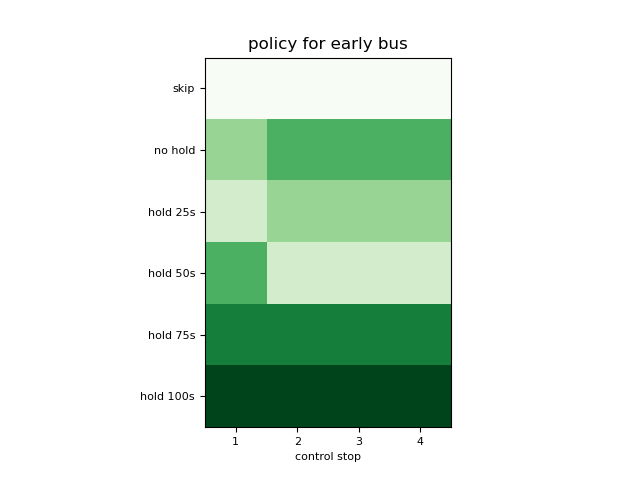
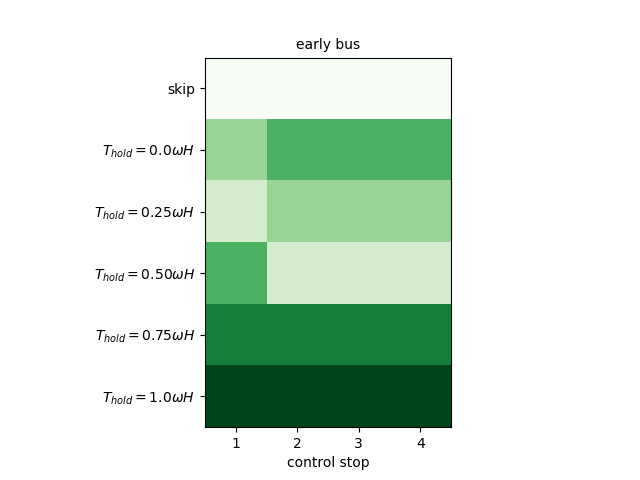
tr-c paper cosmetic updates

diff --git a/src/04_SIMULATION/main.py b/src/04_SIMULATION/main.py
@@ -132,80 +132,80 @@ if __name__ == '__main__':
         # --------------------------------- TESTING ----------------------------------------------------------------
 
         agent.load_models()
-        tstamp = datetime.now().strftime('%m%d-%H%M%S')
-        trajectories_set = []
-        sars_set = []
-        pax_set = []
-        for j in range(args.n_games):
-            score = 0
-            env = simulation_env.DetailedSimulationEnvWithDeepRL()
-            done = env.reset_simulation()
-            done = env.prep()
-            while not done:
-                if not env.bool_terminal_state:
-                    trip_id = env.bus.active_trip[0].trip_id
-                    all_sars = env.trips_sars[trip_id]
-                    observation = np.array(all_sars[-1][0], dtype=np.float32)
-                    route_progress = observation[IDX_RT_PROGRESS]
-                    pax_at_stop = observation[IDX_PAX_AT_STOP]
-
-                    curr_stop = [s for s in env.stops if s.stop_id == env.bus.last_stop_id]
-                    previous_denied = False
-                    for p in curr_stop[0].pax.copy():
-                        if p.arr_time <= env.time:
-                            if p.denied:
-                                previous_denied = True
-                                break
-                        else:
-                            break
-                    if route_progress == 0.0 or pax_at_stop == 0 or previous_denied or args.simple_reward:
-                        action = agent.choose_action(observation, mask_idx=0)
-                    else:
-                        action = agent.choose_action(observation)
-                    env.take_action(action)
-                done = env.prep()
-            env.process_results()
-            trajectories_set.append(env.trajectories)
-            sars_set.append(env.trips_sars)
-            pax_set.append(env.completed_pax)
-
-        path_trajectories = 'out/' + args.save_folder + '/trajectory_set_' + tstamp + '.pkl'
-        path_sars = 'out/' + args.save_folder + '/sars_set_' + tstamp + '.pkl'
-        path_completed_pax = 'out/' + args.save_folder + '/pax_set_' + tstamp + '.pkl'
-        post_process.save(path_trajectories, trajectories_set)
-        post_process.save(path_sars, sars_set)
-        post_process.save(path_completed_pax, pax_set)
-
-        # trajectories_set = load('out/RL/trajectory_set_0106-191406.pkl')
-        # load_mean, _, _, ons_mean, _ = pax_per_trip_from_trajectory_set(trajectories_set, IDX_LOAD,
-        #                                                                 IDX_PICK, IDX_DROP, STOPS)
+        # tstamp = datetime.now().strftime('%m%d-%H%M%S')
+        # trajectories_set = []
+        # sars_set = []
+        # pax_set = []
+        # for j in range(args.n_games):
+        #     score = 0
+        #     env = simulation_env.DetailedSimulationEnvWithDeepRL()
+        #     done = env.reset_simulation()
+        #     done = env.prep()
+        #     while not done:
+        #         if not env.bool_terminal_state:
+        #             trip_id = env.bus.active_trip[0].trip_id
+        #             all_sars = env.trips_sars[trip_id]
+        #             observation = np.array(all_sars[-1][0], dtype=np.float32)
+        #             route_progress = observation[IDX_RT_PROGRESS]
+        #             pax_at_stop = observation[IDX_PAX_AT_STOP]
         #
-        # stable = (FOCUS_TRIPS_MEAN_HW, FOCUS_TRIPS_MEAN_HW, FOCUS_TRIPS_MEAN_HW)
-        # early = (FOCUS_TRIPS_MEAN_HW-FOCUS_TRIPS_MEAN_HW/2, FOCUS_TRIPS_MEAN_HW+FOCUS_TRIPS_MEAN_HW/2, FOCUS_TRIPS_MEAN_HW)
-        # late = (FOCUS_TRIPS_MEAN_HW+FOCUS_TRIPS_MEAN_HW/2, FOCUS_TRIPS_MEAN_HW-FOCUS_TRIPS_MEAN_HW/2, FOCUS_TRIPS_MEAN_HW)
-        # policies = np.zeros((3, len(CONTROLLED_STOPS)-1, N_ACTIONS_RL))
-        # route_progress_scenarios = np.array([(STOPS.index(s) / len(STOPS)) for s in CONTROLLED_STOPS[:-1]])
-        # avg_load = np.array([load_mean[STOPS.index(s)] for s in CONTROLLED_STOPS[:-1]])
-        # avg_ons = np.array([ons_mean[STOPS.index(s)] for s in CONTROLLED_STOPS[:-1]])
-        # k = 0
-        # for scenario in (stable, early, late):
-        #     for i in range(route_progress_scenarios.size):
-        #         obs = np.array([route_progress_scenarios[i], avg_load[i], scenario[0], scenario[1], avg_ons[i], scenario[2]], dtype=np.float32)
-        #         q_values = agent.q_values(obs).detach().numpy()[0]
-        #         temp = np.argsort(q_values)
-        #         rank_q_values = np.empty_like(temp)
-        #         rank_q_values[temp] = np.arange(len(q_values))
-        #         policies[k, i] = rank_q_values
-        #     k += 1
-        # fig_names = ['on time', 'early', 'late']
-        # for i in range(policies.shape[0]):
-        #     plt.imshow(policies[i].T, cmap='Greens')
-        #     plt.xticks(np.arange(len(route_progress_scenarios)), np.arange(len(route_progress_scenarios)) + 1, fontsize=8)
-        #     plt.yticks(np.arange(N_ACTIONS_RL), ['skip', 'no hold', 'hold 25s', 'hold 50s', 'hold 75s', 'hold 100s'], fontsize=8)
-        #     plt.xlabel('control stop', fontsize=8)
-        #     plt.title('policy for ' + fig_names[i] + ' bus')
-        #     plt.savefig('policy_' + fig_names[i] + '.png')
-        #     plt.close()
+        #             curr_stop = [s for s in env.stops if s.stop_id == env.bus.last_stop_id]
+        #             previous_denied = False
+        #             for p in curr_stop[0].pax.copy():
+        #                 if p.arr_time <= env.time:
+        #                     if p.denied:
+        #                         previous_denied = True
+        #                         break
+        #                 else:
+        #                     break
+        #             if route_progress == 0.0 or pax_at_stop == 0 or previous_denied or args.simple_reward:
+        #                 action = agent.choose_action(observation, mask_idx=0)
+        #             else:
+        #                 action = agent.choose_action(observation)
+        #             env.take_action(action)
+        #         done = env.prep()
+        #     env.process_results()
+        #     trajectories_set.append(env.trajectories)
+        #     sars_set.append(env.trips_sars)
+        #     pax_set.append(env.completed_pax)
+        #
+        # path_trajectories = 'out/' + args.save_folder + '/trajectory_set_' + tstamp + '.pkl'
+        # path_sars = 'out/' + args.save_folder + '/sars_set_' + tstamp + '.pkl'
+        # path_completed_pax = 'out/' + args.save_folder + '/pax_set_' + tstamp + '.pkl'
+        # post_process.save(path_trajectories, trajectories_set)
+        # post_process.save(path_sars, sars_set)
+        # post_process.save(path_completed_pax, pax_set)
+
+        trajectories_set = load('out/DDQN-HA/trajectory_set_0106-191406.pkl')
+        load_mean, _, _, ons_mean, _ = pax_per_trip_from_trajectory_set(trajectories_set, IDX_LOAD,
+                                                                        IDX_PICK, IDX_DROP, STOPS)
+
+        stable = (FOCUS_TRIPS_MEAN_HW, FOCUS_TRIPS_MEAN_HW, FOCUS_TRIPS_MEAN_HW)
+        early = (FOCUS_TRIPS_MEAN_HW-FOCUS_TRIPS_MEAN_HW/2, FOCUS_TRIPS_MEAN_HW+FOCUS_TRIPS_MEAN_HW/2, FOCUS_TRIPS_MEAN_HW)
+        late = (FOCUS_TRIPS_MEAN_HW+FOCUS_TRIPS_MEAN_HW/2, FOCUS_TRIPS_MEAN_HW-FOCUS_TRIPS_MEAN_HW/2, FOCUS_TRIPS_MEAN_HW)
+        policies = np.zeros((3, len(CONTROLLED_STOPS)-1, N_ACTIONS_RL))
+        route_progress_scenarios = np.array([(STOPS.index(s) / len(STOPS)) for s in CONTROLLED_STOPS[:-1]])
+        avg_load = np.array([load_mean[STOPS.index(s)] for s in CONTROLLED_STOPS[:-1]])
+        avg_ons = np.array([ons_mean[STOPS.index(s)] for s in CONTROLLED_STOPS[:-1]])
+        k = 0
+        for scenario in (stable, early, late):
+            for i in range(route_progress_scenarios.size):
+                obs = np.array([route_progress_scenarios[i], avg_load[i], scenario[0], scenario[1], avg_ons[i], scenario[2]], dtype=np.float32)
+                q_values = agent.q_values(obs).detach().numpy()[0]
+                temp = np.argsort(q_values)
+                rank_q_values = np.empty_like(temp)
+                rank_q_values[temp] = np.arange(len(q_values))
+                policies[k, i] = rank_q_values
+            k += 1
+        fig_names = ['on time', 'early', 'late']
+        for i in range(policies.shape[0]):
+            plt.imshow(policies[i].T, cmap='Greens')
+            plt.xticks(np.arange(len(route_progress_scenarios)), np.arange(len(route_progress_scenarios)) + 1, fontsize=10)
+            plt.yticks(np.arange(N_ACTIONS_RL), ['skip', '$T_{hold} = 0.0\omega H$', '$T_{hold} = 0.25\omega H$', '$T_{hold} = 0.50\omega H$', '$T_{hold} = 0.75\omega H$', '$T_{hold} = 1.0\omega H$'], fontsize=10)
+            plt.xlabel('control stop', fontsize=10)
+            plt.title(fig_names[i] + ' bus', fontsize=10)
+            plt.savefig('policy_' + fig_names[i] + '.png')
+            plt.close()
 
 # cd src/04_SIMULATION
 # train
